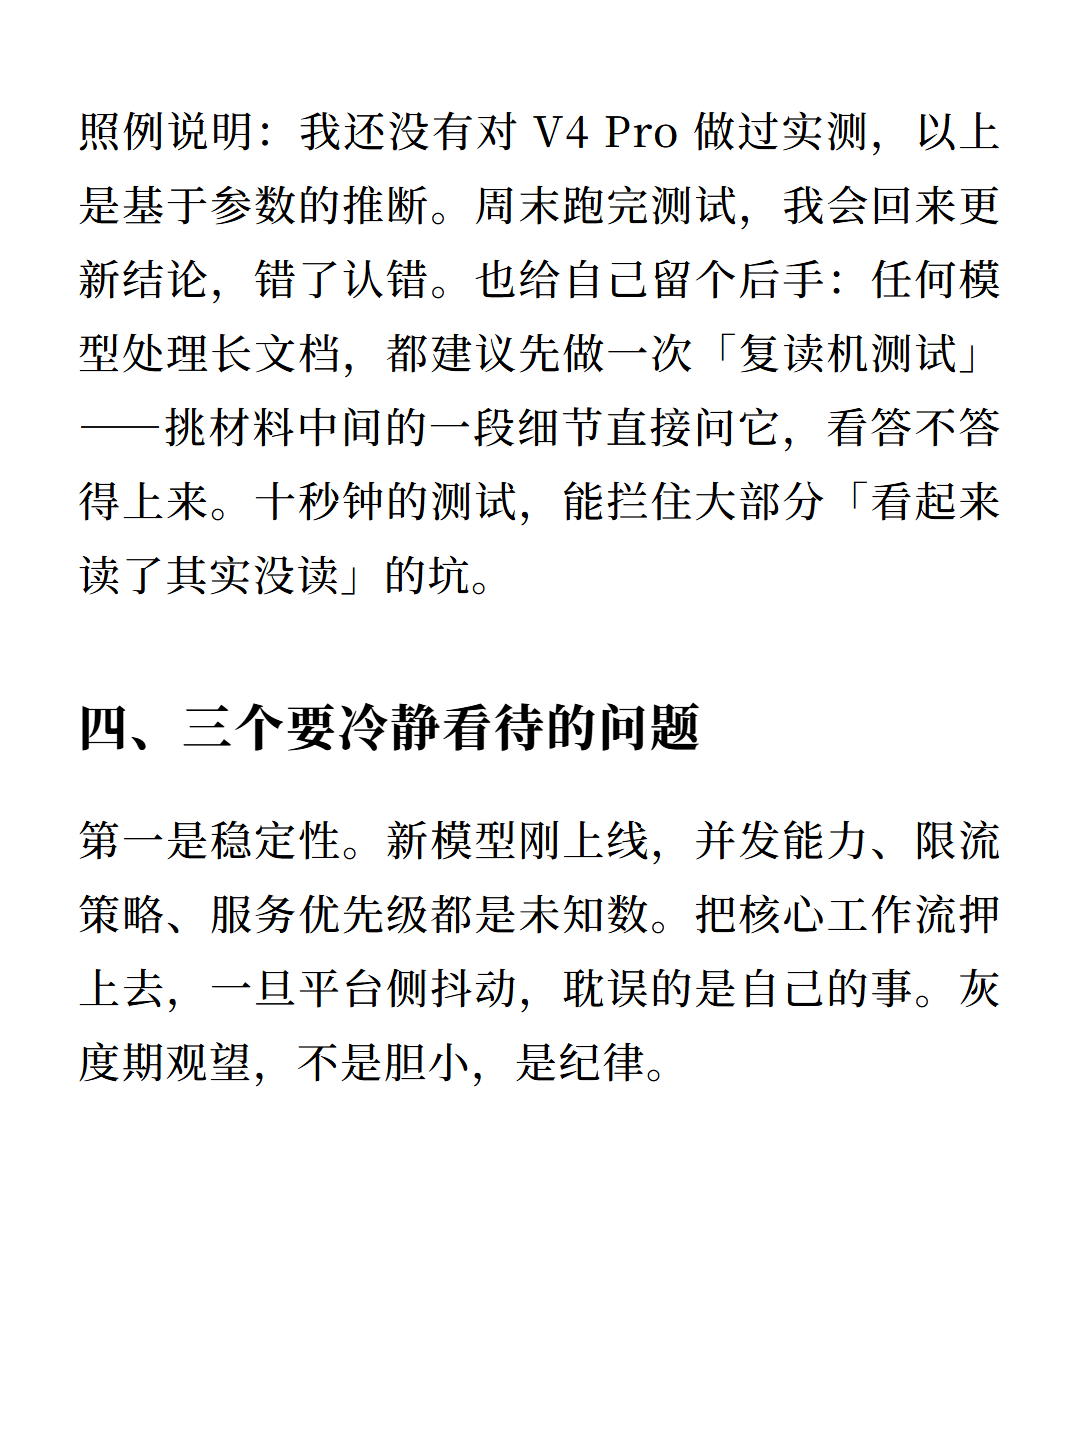
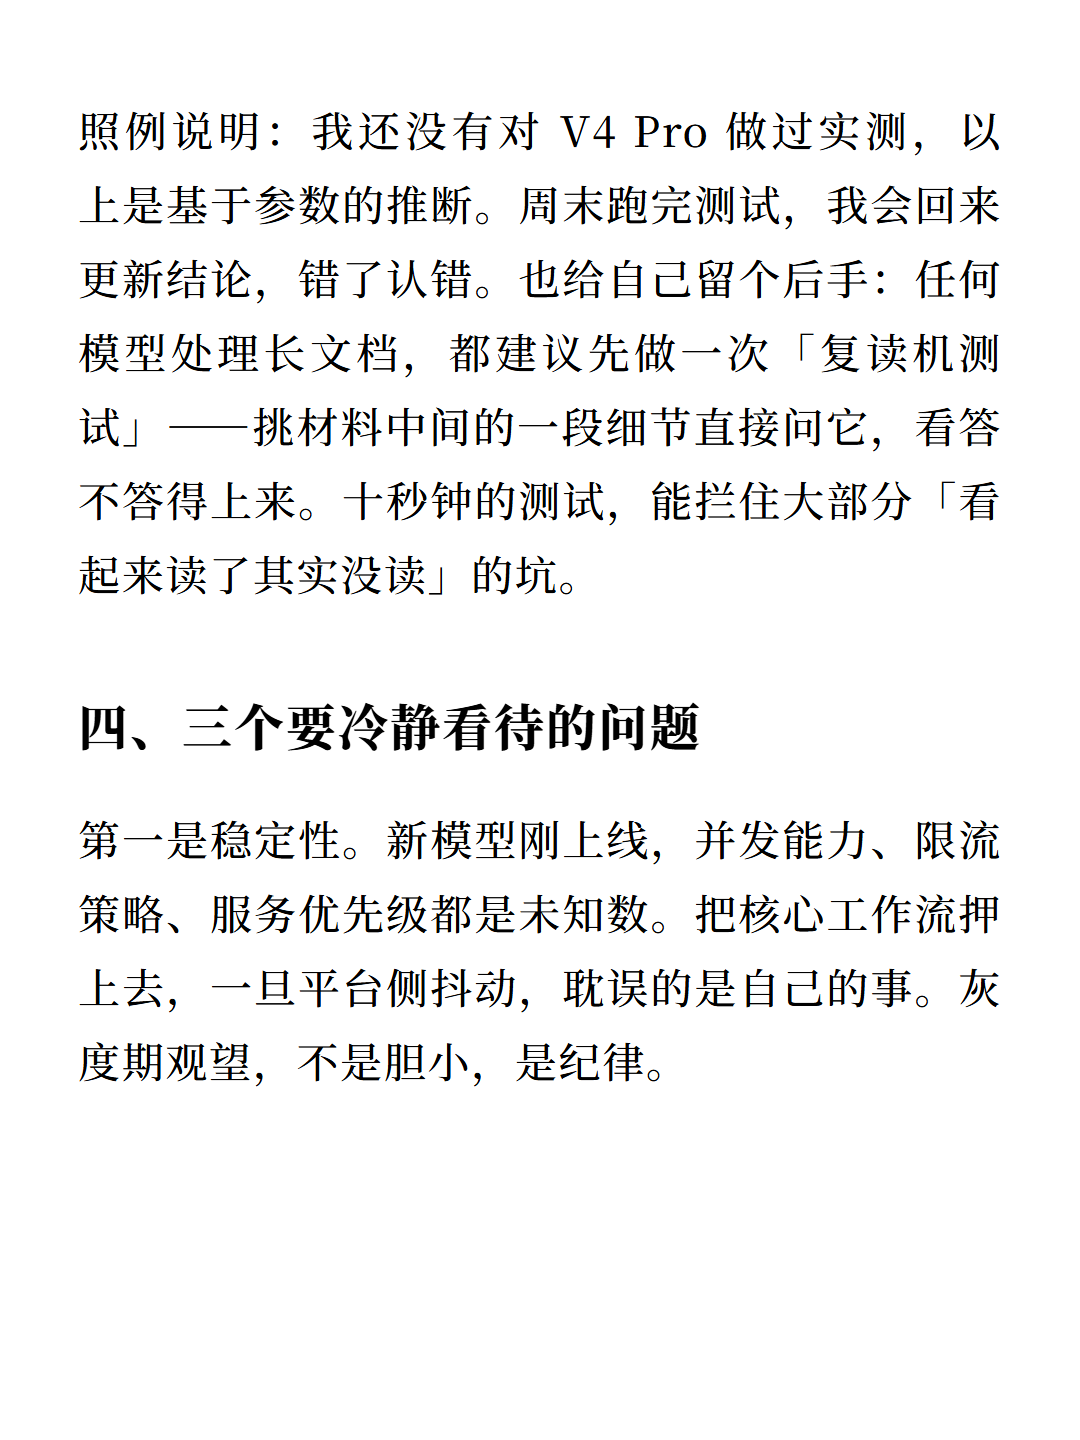
行距 76/段距 106 同文对照页；修复拉丁字宽低估导致的浏览器二次折行

Changed region(s): [[0.0611, 0.0625, 0.9472, 0.4375]]

diff --git a/design/preview/对照_同文.html b/design/preview/对照_同文.html
@@ -1,0 +1,67 @@
+<!DOCTYPE html>
+<html lang="zh-CN">
+<head>
+<meta charset="utf-8">
+<link rel="preconnect" href="https://fonts.googleapis.com">
+<link href="https://fonts.googleapis.com/css2?family=Noto+Serif+SC:wght@400;500;600;700;800;900&display=swap" rel="stylesheet">
+<style>
+:root {
+  --ink: #000000; --ink-2: #6E6E73; --ink-3: #86868B;
+  --hairline: #D2D2D7; --hl-yellow: rgba(255,204,0,.40);
+  --serif: "Noto Serif SC", "Source Han Serif SC", "SimSun", serif;
+}
+* { margin: 0; padding: 0; box-sizing: border-box; }
+html, body { width: 1080px; height: 1800px; overflow: hidden; }
+body {
+  font-family: var(--serif); background: #FFFFFF; color: var(--ink);
+  display: flex; flex-direction: column;
+  padding: 92px 78px 64px;
+}
+main { flex: 1; }
+.hln { font-size: 50px; line-height: 80px; font-weight: 800; letter-spacing: 0.0em; }
+.pln { font-size: 40px; line-height: 76px; font-weight: 500; letter-spacing: 0.0em; text-align: justify; text-align-last: justify; }
+.pln.last { text-align-last: auto; }
+.lede { font-size: 30px; color: #6E6E73; letter-spacing: .12em; font-weight: 400; margin-bottom: 40px; }
+.cover-title { font-size: 84px; line-height: 1.34; font-weight: 900; letter-spacing: .02em; }
+.cover-title u { text-decoration: none; border-bottom: 14px solid var(--hl-yellow); padding-bottom: 8px; }
+.toc { margin-top: 70px; }
+.toc-item { display: flex; align-items: baseline; gap: 26px; padding: 26px 0; border-top: 1.5px solid var(--hairline); }
+.toc-item:first-child { border-top: none; }
+.toc-item .no { font-size: 42px; font-weight: 700; color: var(--ink); }
+.toc-item .what { font-size: 40px; font-weight: 600; }
+</style>
+</head>
+<body>
+
+<main>
+<div class="pln">straw man是一个逻辑学里非常经典的观点，也是</div>
+<div class="pln last">一个很有意思的辩论技巧，叫稻草人谬误。</div>
+<div style="height:30px"></div>
+<div class="pln">大概意思就是，两个人争论时，其中一个人故意把对</div>
+<div class="pln">方的观点说得特别蠢、特别极端、特别容易攻击，然</div>
+<div class="pln last">后对着这个被篡改过的弱版本一顿输出。</div>
+<div style="height:30px"></div>
+<div class="pln last">比如你说：“我觉得这台XX手机有点贵。”</div>
+<div style="height:30px"></div>
+<div class="pln last">对方说：“哦，懂了，你看不起国产手机。”</div>
+<div style="height:30px"></div>
+<div class="pln">我相信大家日常生活里经常遇到到这样的人，这就是</div>
+<div class="pln">strawman，稻草人谬误，你真正的观点被削弱、</div>
+<div class="pln last">扭曲了。</div>
+<div style="height:30px"></div>
+<div class="pln last">后来英语里就出现了一个特别形象的反向说法：</div>
+<div style="height:30px"></div>
+<div class="pln last">steelman。</div>
+<div style="height:30px"></div>
+<div class="pln last">straw是稻草，软弱、一碰就倒。</div>
+<div style="height:30px"></div>
+<div class="pln last">steel是钢铁，坚固、强壮、难以击败。</div>
+<div style="height:30px"></div>
+<div class="pln">于是，钢人论证法出现了，也就是steelman，它</div>
+<div class="pln">完全是稻草人谬误的反面，它要求你先替对方把论点</div>
+<div class="pln">补完整，把其中最合理、最难反驳的部分全部找出</div>
+<div class="pln last">来，甚至说得比对方本人还好，然后再开始判断。</div>
+</main>
+
+</body>
+</html>

diff --git a/design/preview/c5_35/page_07.html b/design/preview/c5_35/page_07.html
@@ -39,19 +39,19 @@ main { flex: 1; }
 <div class="pln">落全文」的汇总型问题。两个能力是互补的，不</div>
 <div class="pln last">是替代关系。这次更新，补的是后一块的短板。</div>
 <div style="height:29px"></div>
-<div class="pln">如果 V4 Pro 的 1M 上下文真的稳定，这类活儿</div>
-<div class="pln">的做法就变成了：整份文件直接扔进去，让它自</div>
-<div class="pln">己从头读到尾，再回答问题。省掉的不只是切割</div>
-<div class="pln">的时间，还有分段导致的信息丢失——这部分损</div>
-<div class="pln last">失平时看不见，出错的时候才知道疼。</div>
+<div class="pln">如果 V4 Pro 的 1M 上下文真的稳定，这类活</div>
+<div class="pln">儿的做法就变成了：整份文件直接扔进去，让它</div>
+<div class="pln">自己从头读到尾，再回答问题。省掉的不只是切</div>
+<div class="pln">割的时间，还有分段导致的信息丢失——这部分</div>
+<div class="pln last">损失平时看不见，出错的时候才知道疼。</div>
 <div style="height:29px"></div>
-<div class="pln">照例说明：我还没有对 V4 Pro 做过实测，以上</div>
-<div class="pln">是基于参数的推断。周末跑完测试，我会回来更</div>
-<div class="pln">新结论，错了认错。也给自己留个后手：任何模</div>
-<div class="pln">型处理长文档，都建议先做一次「复读机测试」</div>
-<div class="pln">——挑材料中间的一段细节直接问它，看答不答</div>
-<div class="pln">得上来。十秒钟的测试，能拦住大部分「看起来</div>
-<div class="pln last">读了其实没读」的坑。</div>
+<div class="pln">照例说明：我还没有对 V4 Pro 做过实测，以</div>
+<div class="pln">上是基于参数的推断。周末跑完测试，我会回来</div>
+<div class="pln">更新结论，错了认错。也给自己留个后手：任何</div>
+<div class="pln">模型处理长文档，都建议先做一次「复读机测</div>
+<div class="pln">试」——挑材料中间的一段细节直接问它，看答</div>
+<div class="pln">不答得上来。十秒钟的测试，能拦住大部分「看</div>
+<div class="pln last">起来读了其实没读」的坑。</div>
 <div style="height:74px"></div>
 </main>
 </body>

diff --git a/design/preview/c5_34/page_09.html b/design/preview/c5_34/page_09.html
@@ -33,13 +33,13 @@ main { flex: 1; }
 </head>
 <body>
 <main>
-<div class="pln">照例说明：我还没有对 V4 Pro 做过实测，以上</div>
-<div class="pln">是基于参数的推断。周末跑完测试，我会回来更</div>
-<div class="pln">新结论，错了认错。也给自己留个后手：任何模</div>
-<div class="pln">型处理长文档，都建议先做一次「复读机测试」</div>
-<div class="pln">——挑材料中间的一段细节直接问它，看答不答</div>
-<div class="pln">得上来。十秒钟的测试，能拦住大部分「看起来</div>
-<div class="pln last">读了其实没读」的坑。</div>
+<div class="pln">照例说明：我还没有对 V4 Pro 做过实测，以</div>
+<div class="pln">上是基于参数的推断。周末跑完测试，我会回来</div>
+<div class="pln">更新结论，错了认错。也给自己留个后手：任何</div>
+<div class="pln">模型处理长文档，都建议先做一次「复读机测</div>
+<div class="pln">试」——挑材料中间的一段细节直接问它，看答</div>
+<div class="pln">不答得上来。十秒钟的测试，能拦住大部分「看</div>
+<div class="pln last">起来读了其实没读」的坑。</div>
 <div style="height:74px"></div>
 <div class="hln">四、三个要冷静看待的问题</div>
 <div style="height:37px"></div>

diff --git a/design/preview/c5_34/page_02.html b/design/preview/c5_34/page_02.html
@@ -35,11 +35,11 @@ main { flex: 1; }
 <main>
 <div class="hln">一、上线硅基流动，上下文 1M</div>
 <div style="height:37px"></div>
-<div class="pln">DeepSeek V4 Pro 已经悄悄出现在硅基流动的</div>
-<div class="pln">模型列表里，普通注册用户就能直接调用，不需</div>
-<div class="pln">要申请，也不需要排队。这次更新最扎眼的参数</div>
-<div class="pln">只有一个：上下文窗口 1M 字符。没有发布会，</div>
-<div class="pln last">没有倒计时，就这么静悄悄地上线了。</div>
+<div class="pln">DeepSeek V4 Pro 已经悄悄出现在硅基流动</div>
+<div class="pln">的模型列表里，普通注册用户就能直接调用，不</div>
+<div class="pln">需要申请，也不需要排队。这次更新最扎眼的参</div>
+<div class="pln">数只有一个：上下文窗口 1M 字符。没有发布</div>
+<div class="pln last">会，没有倒计时，就这么静悄悄地上线了。</div>
 <div style="height:29px"></div>
 <div class="pln">先说人话。上下文窗口，决定的是模型一次对话</div>
 <div class="pln">里能「捧着读」的内容总量。之前的公开主流水</div>

diff --git a/design/preview/c5_35/page_02.html b/design/preview/c5_35/page_02.html
@@ -35,11 +35,11 @@ main { flex: 1; }
 <main>
 <div class="hln">一、上线硅基流动，上下文 1M</div>
 <div style="height:37px"></div>
-<div class="pln">DeepSeek V4 Pro 已经悄悄出现在硅基流动的</div>
-<div class="pln">模型列表里，普通注册用户就能直接调用，不需</div>
-<div class="pln">要申请，也不需要排队。这次更新最扎眼的参数</div>
-<div class="pln">只有一个：上下文窗口 1M 字符。没有发布会，</div>
-<div class="pln last">没有倒计时，就这么静悄悄地上线了。</div>
+<div class="pln">DeepSeek V4 Pro 已经悄悄出现在硅基流动</div>
+<div class="pln">的模型列表里，普通注册用户就能直接调用，不</div>
+<div class="pln">需要申请，也不需要排队。这次更新最扎眼的参</div>
+<div class="pln">数只有一个：上下文窗口 1M 字符。没有发布</div>
+<div class="pln last">会，没有倒计时，就这么静悄悄地上线了。</div>
 <div style="height:29px"></div>
 <div class="pln">先说人话。上下文窗口，决定的是模型一次对话</div>
 <div class="pln">里能「捧着读」的内容总量。之前的公开主流水</div>

diff --git a/design/preview/c5_34/page_08.html b/design/preview/c5_34/page_08.html
@@ -45,11 +45,11 @@ main { flex: 1; }
 <div class="pln">落全文」的汇总型问题。两个能力是互补的，不</div>
 <div class="pln last">是替代关系。这次更新，补的是后一块的短板。</div>
 <div style="height:29px"></div>
-<div class="pln">如果 V4 Pro 的 1M 上下文真的稳定，这类活儿</div>
-<div class="pln">的做法就变成了：整份文件直接扔进去，让它自</div>
-<div class="pln">己从头读到尾，再回答问题。省掉的不只是切割</div>
-<div class="pln">的时间，还有分段导致的信息丢失——这部分损</div>
-<div class="pln last">失平时看不见，出错的时候才知道疼。</div>
+<div class="pln">如果 V4 Pro 的 1M 上下文真的稳定，这类活</div>
+<div class="pln">儿的做法就变成了：整份文件直接扔进去，让它</div>
+<div class="pln">自己从头读到尾，再回答问题。省掉的不只是切</div>
+<div class="pln">割的时间，还有分段导致的信息丢失——这部分</div>
+<div class="pln last">损失平时看不见，出错的时候才知道疼。</div>
 <div style="height:29px"></div>
 </main>
 </body>

diff --git a/design/preview/c5_34/prose_mode.html b/design/preview/c5_34/prose_mode.html
@@ -33,11 +33,11 @@ main { flex: 1; }
 </head>
 <body>
 <main>
-<div class="pln">DeepSeek V4 Pro 已经悄悄出现在硅基流动的</div>
-<div class="pln">模型列表里，普通注册用户就能直接调用，不需</div>
-<div class="pln">要申请，也不需要排队。这次更新最扎眼的参数</div>
-<div class="pln">只有一个：上下文窗口 1M 字符。没有发布会，</div>
-<div class="pln last">没有倒计时，就这么静悄悄地上线了。</div>
+<div class="pln">DeepSeek V4 Pro 已经悄悄出现在硅基流动</div>
+<div class="pln">的模型列表里，普通注册用户就能直接调用，不</div>
+<div class="pln">需要申请，也不需要排队。这次更新最扎眼的参</div>
+<div class="pln">数只有一个：上下文窗口 1M 字符。没有发布</div>
+<div class="pln last">会，没有倒计时，就这么静悄悄地上线了。</div>
 <div style="height:29px"></div>
 <div class="pln">先说人话。上下文窗口，决定的是模型一次对话</div>
 <div class="pln">里能「捧着读」的内容总量。之前的公开主流水</div>

diff --git a/design/preview/c5_35/prose_mode.html b/design/preview/c5_35/prose_mode.html
@@ -33,11 +33,11 @@ main { flex: 1; }
 </head>
 <body>
 <main>
-<div class="pln">DeepSeek V4 Pro 已经悄悄出现在硅基流动的</div>
-<div class="pln">模型列表里，普通注册用户就能直接调用，不需</div>
-<div class="pln">要申请，也不需要排队。这次更新最扎眼的参数</div>
-<div class="pln">只有一个：上下文窗口 1M 字符。没有发布会，</div>
-<div class="pln last">没有倒计时，就这么静悄悄地上线了。</div>
+<div class="pln">DeepSeek V4 Pro 已经悄悄出现在硅基流动</div>
+<div class="pln">的模型列表里，普通注册用户就能直接调用，不</div>
+<div class="pln">需要申请，也不需要排队。这次更新最扎眼的参</div>
+<div class="pln">数只有一个：上下文窗口 1M 字符。没有发布</div>
+<div class="pln last">会，没有倒计时，就这么静悄悄地上线了。</div>
 <div style="height:29px"></div>
 <div class="pln">先说人话。上下文窗口，决定的是模型一次对话</div>
 <div class="pln">里能「捧着读」的内容总量。之前的公开主流水</div>

diff --git a/design/preview/c5_34/page_07.html b/design/preview/c5_34/page_07.html
@@ -41,10 +41,10 @@ main { flex: 1; }
 <div class="hln">三、500 页 PDF 的真实痛感</div>
 <div style="height:37px"></div>
 <div class="pln">说个我自己的场景。之前处理一份五百页的行业</div>
-<div class="pln"> PDF，模型每轮只能吃进去几十页，我只好手动</div>
-<div class="pln">切成十几段，一段一段喂。更麻烦的是，还得自</div>
-<div class="pln">己维护一份「前面聊过什么」的摘要，每次都附</div>
-<div class="pln last">在提问后面，流程又慢又容易出错。</div>
+<div class="pln"> PDF，模型每轮只能吃进去几十页，我只好手</div>
+<div class="pln">动切成十几段，一段一段喂。更麻烦的是，还得</div>
+<div class="pln">自己维护一份「前面聊过什么」的摘要，每次都</div>
+<div class="pln last">附在提问后面，流程又慢又容易出错。</div>
 <div style="height:29px"></div>
 <div class="pln">当时的流程大致是这样：先把 PDF 按章节切</div>
 <div class="pln">块、编号；每次提问，附上问题相关的两三块，</div>

diff --git a/design/preview/c5_35/page_06.html b/design/preview/c5_35/page_06.html
@@ -37,10 +37,10 @@ main { flex: 1; }
 <div class="hln">三、500 页 PDF 的真实痛感</div>
 <div style="height:37px"></div>
 <div class="pln">说个我自己的场景。之前处理一份五百页的行业</div>
-<div class="pln"> PDF，模型每轮只能吃进去几十页，我只好手动</div>
-<div class="pln">切成十几段，一段一段喂。更麻烦的是，还得自</div>
-<div class="pln">己维护一份「前面聊过什么」的摘要，每次都附</div>
-<div class="pln last">在提问后面，流程又慢又容易出错。</div>
+<div class="pln"> PDF，模型每轮只能吃进去几十页，我只好手</div>
+<div class="pln">动切成十几段，一段一段喂。更麻烦的是，还得</div>
+<div class="pln">自己维护一份「前面聊过什么」的摘要，每次都</div>
+<div class="pln last">附在提问后面，流程又慢又容易出错。</div>
 <div style="height:29px"></div>
 <div class="pln">当时的流程大致是这样：先把 PDF 按章节切</div>
 <div class="pln">块、编号；每次提问，附上问题相关的两三块，</div>

diff --git a/design/preview/c5_34/page_04.html b/design/preview/c5_34/page_04.html
@@ -43,10 +43,10 @@ main { flex: 1; }
 <div style="height:74px"></div>
 <div class="hln">二、1M 上下文是一本书的量</div>
 <div style="height:37px"></div>
-<div class="pln">把 1M 拆到具体场景里看。写论文的同学，参考</div>
-<div class="pln">文献加正文加笔记，往往几十万字起步；看合同</div>
-<div class="pln">的人，一个项目的合同组加上补充协议，轻松过</div>
-<div class="pln">百页；写代码的人，一个中型仓库的源码加文</div>
+<div class="pln">把 1M 拆到具体场景里看。写论文的同学，参</div>
+<div class="pln">考文献加正文加笔记，往往几十万字起步；看合</div>
+<div class="pln">同的人，一个项目的合同组加上补充协议，轻松</div>
+<div class="pln">过百页；写代码的人，一个中型仓库的源码加文</div>
 <div class="pln">档，也是几十万字符的量级。这些活儿，以前都</div>
 <div class="pln last">得先切块。</div>
 <div style="height:29px"></div>

diff --git a/design/preview/c5_35/page_04.html b/design/preview/c5_35/page_04.html
@@ -33,10 +33,10 @@ main { flex: 1; }
 </head>
 <body>
 <main>
-<div class="pln">把 1M 拆到具体场景里看。写论文的同学，参考</div>
-<div class="pln">文献加正文加笔记，往往几十万字起步；看合同</div>
-<div class="pln">的人，一个项目的合同组加上补充协议，轻松过</div>
-<div class="pln">百页；写代码的人，一个中型仓库的源码加文</div>
+<div class="pln">把 1M 拆到具体场景里看。写论文的同学，参</div>
+<div class="pln">考文献加正文加笔记，往往几十万字起步；看合</div>
+<div class="pln">同的人，一个项目的合同组加上补充协议，轻松</div>
+<div class="pln">过百页；写代码的人，一个中型仓库的源码加文</div>
 <div class="pln">档，也是几十万字符的量级。这些活儿，以前都</div>
 <div class="pln last">得先切块。</div>
 <div style="height:29px"></div>
